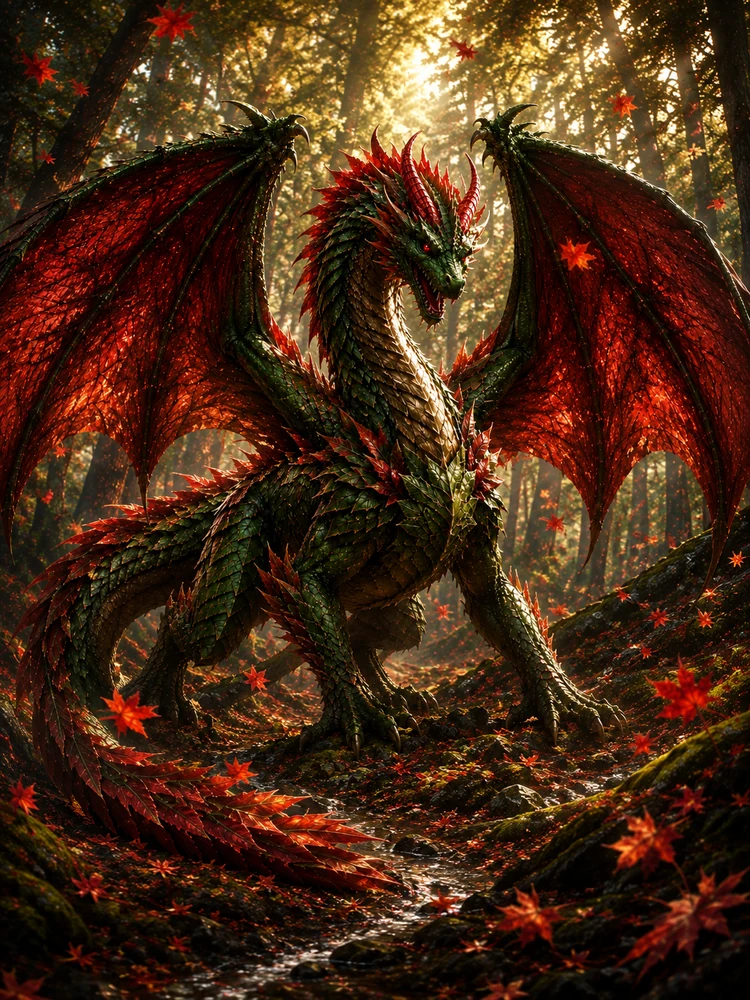
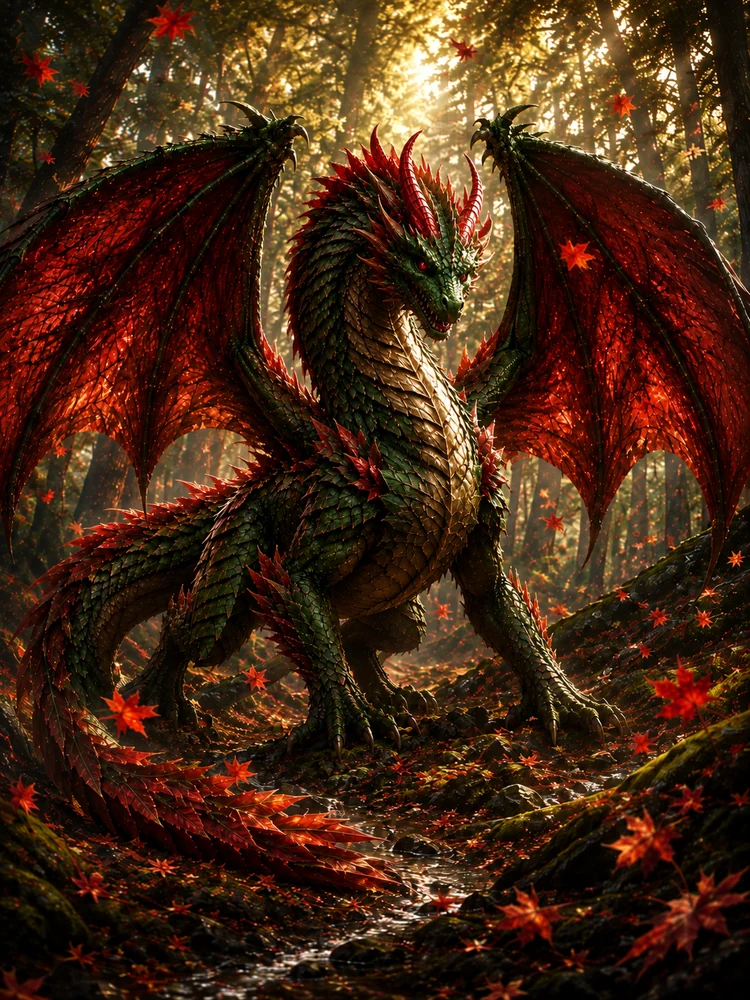
balance(cards): Greegon back to a wall, and new art
DMG 5 -> 4, HP 15 -> 19, SP 6 -> 4. Cost unchanged at 3. Art replaced with a
fresh 750x1000 render.

Budget 27 against a Cost-3 target of 25 — +2, at the edge of the band but
inside it, so it needs no exception. It was already +1 at 26.

THE SP IS THE REAL CHANGE, not the DMG. SP_SLOW_MAX is 5, so dropping 6 -> 4
crosses the movement tier: its stride halves from 2 slots to 1. That is a much
larger swing than "-2 speed" reads like, and it works directly against the
note already in the file — Bramble's BLEED was given to Greegon BECAUSE it was
a pure wall that never closed anything. At reach 1 it closes less still, so the
thorns will land less often. Its value has moved to soaking: REGEN 2 on top of
Photosynthesis mends 4 a round on a 19-HP body.

ART. The supplied PNG was 1086x1448, which scales to exactly 750x1000 — the
same aspect as the art it replaces. Converted at quality 86 for 235KB, inside
the 228-320KB band the other 344 files sit in. The source PNG is removed: it
was the only PNG among 344 webp, and Vite copies public/ verbatim into dist,
so leaving it would ship 2.8MB of dead weight on every deploy.

Two Bluejay tests broke on the stat change and were repaired to derive from the
data rather than restate it — one had Greegon's max HP written out as a literal
15, the other computed a -1 SP result that effectiveSp floors to 0. Those fixes
landed in 6b4bd04, having been swept into that commit from a shared index.

diff --git a/src/data/cards.ts b/src/data/cards.ts
@@ -107,10 +107,18 @@ export const CARDS: CardDef[] = [
     cardClass: "Tank",
     attackType: "Melee",
     cost: 3,
-    dmg: 5,
+    // Pushed back toward the wall it started as: DMG 5 -> 4, HP 15 -> 19, SP 6 -> 4.
+    // Budget 27 vs a Cost-3 target of 25 — +2, at the edge of the band but inside it.
+    //
+    // The SP is the real change, not the DMG. SP_SLOW_MAX is 5, so dropping 6 -> 4
+    // crosses the movement tier and its stride halves, 2 slots to 1. That works
+    // against the Bramble note below: the thorns were added BECAUSE it never closed
+    // anything, and at reach 1 it closes less still. With REGEN 2 on top of
+    // Photosynthesis it mends 4 a round, which is where its value has gone.
+    dmg: 4,
     hits: 1,
-    hp: 15,
-    sp: 6,
+    hp: 19,
+    sp: 4,
     shields: 0,
     keywords: { REGEN: 2 }, // Canopy: REGEN 2 at end of round
     // Bramble: its basic leaves BLEED 1 for 2 rounds. Greegon was a pure wall —
